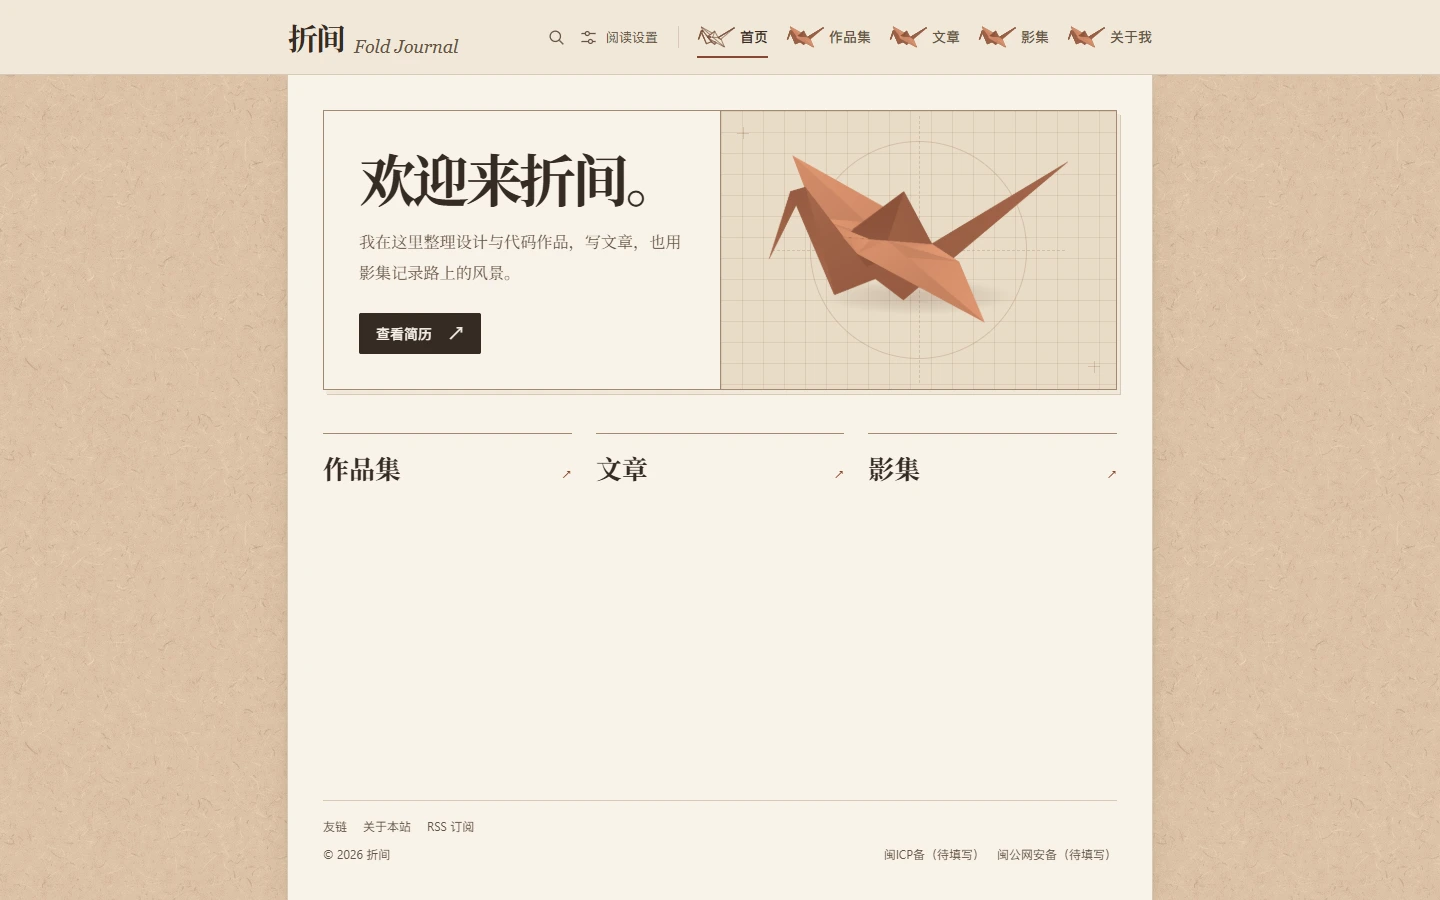
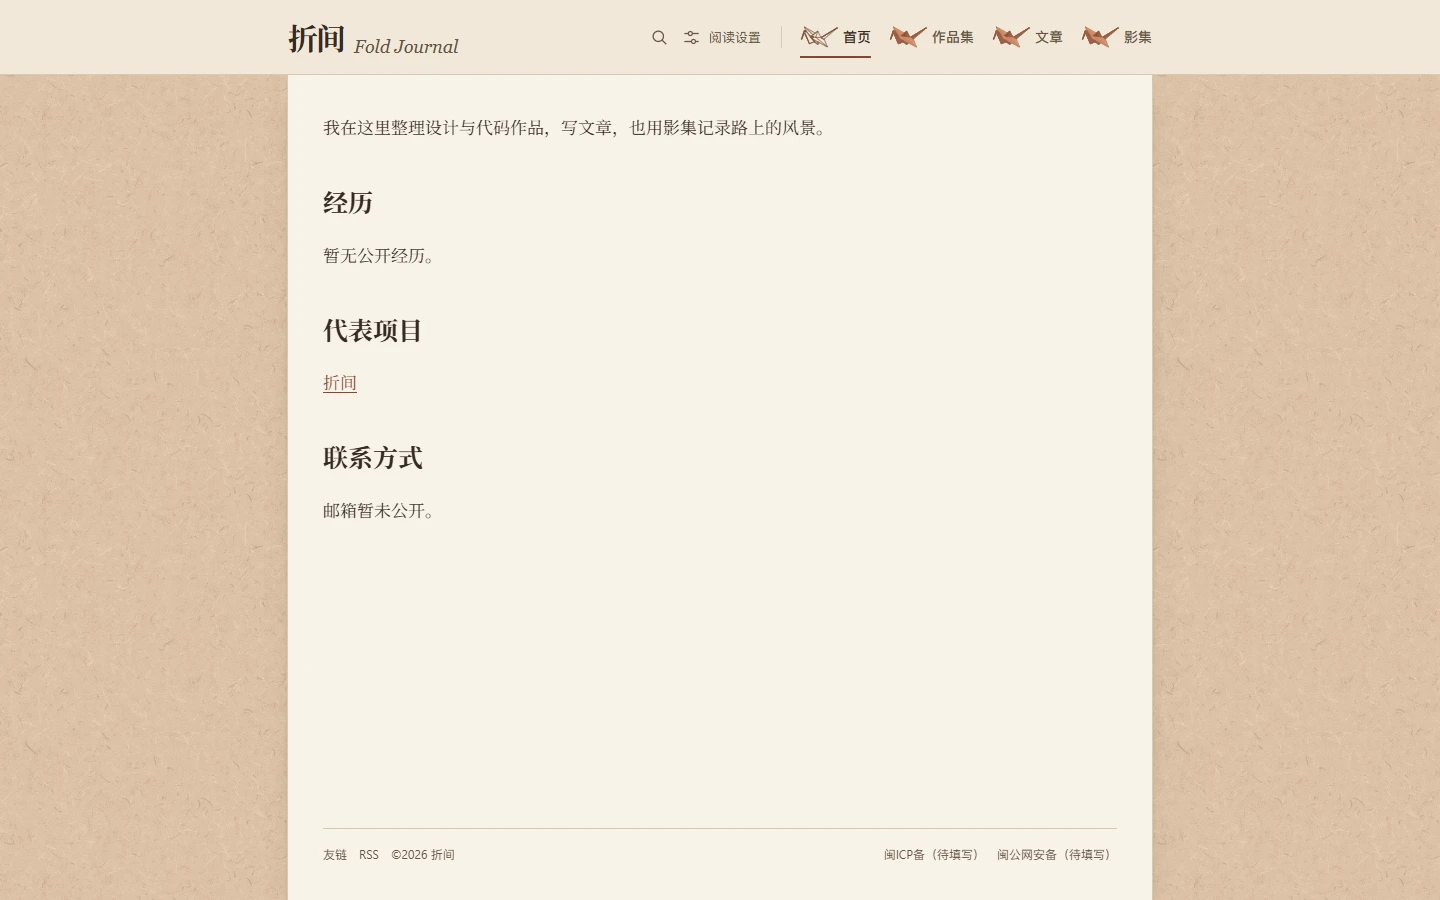
refactor(layout): show entry content first and label the reading area
Keep visible titles on detail pages and give entry pages a reading
region named by a screen-reader heading. Move keyboard focus to that
region after navigation and verify the layout across themes and sizes.

diff --git a/src/scripts/navigation.ts b/src/scripts/navigation.ts
@@ -138,8 +138,7 @@ function installNavigation() {
     current = undefined;
     if (nav.keyboard && nav.event.navigationType !== "traverse" && !location.hash &&
         (document.activeElement === document.body || !document.activeElement)) {
-      const heading = document.querySelector<HTMLElement>("main h1");
-      if (heading) { heading.tabIndex = -1; heading.focus({ preventScroll: true }); }
+      document.getElementById("content")?.focus({ preventScroll: true });
     }
   });
 

diff --git a/src/styles/global.css b/src/styles/global.css
@@ -14,6 +14,16 @@ body {
   font: var(--weight-regular) var(--text-body)/var(--leading-body) var(--sans);
 }
 h1, h2, h3, p, figure { margin: 0; }
+.visually-hidden {
+  position: absolute;
+  width: 1px;
+  height: 1px;
+  padding: 0;
+  border: 0;
+  overflow: hidden;
+  clip-path: inset(50%);
+  white-space: nowrap;
+}
 a { color: inherit; text-decoration: none; }
 button, input, summary { font: inherit; }
 :is(a, button, summary, input):focus-visible {

diff --git a/src/styles/tokens.css b/src/styles/tokens.css
@@ -63,7 +63,6 @@
   --text-deck: clamp(17px, 1.5vw, 20px);
   --leading-body: 1.65;
   --leading-prose: 1.95;
-  --type-eyebrow: var(--weight-semibold) var(--text-meta)/1.5 var(--sans);
   --type-count: var(--text-caption)/1.5 var(--mono), var(--sans);
 
   --space-1: 4px;

diff --git a/docs/vi-design.md b/docs/vi-design.md
@@ -4,7 +4,7 @@
 
 颜色、字体、字重和尺寸以 [CSS 设计变量](../src/styles/tokens.css) 为准。页面从 [Astro 组件库](../src/components/ui/index.ts) 取用界面。本文参考了 [PebblePile 的 VI 说明](https://github.com/155TuT/PebblePile/blob/main/docs/vi-design.md) 将视觉角色、对应组件和验证方法放在一起的做法。
 
-![浅色首页，纸面展示个人介绍和三个栏目入口](vi/home-light.webp)
+![浅色首页，个人介绍正文保留经历与邮箱的占位文字](vi/home-light.webp)
 
 ## 标志与插图
 
@@ -84,11 +84,11 @@
 
 | 文字角色 | 字体变量 | 字号、字重与行高 |
 | --- | --- | --- |
-| 封面标题 | `--serif` | 29–78 px，700，行高 1.12 |
-| 内页与文章标题 | `--serif` | 28–59 px，700，行高 1.2 |
-| 栏目标题、文章列表标题 | `--serif` | 栏目 26 px、列表 20–26 px，650。单栏分别为 23、21 px |
+| 文章篇名、作品名、影集名 | `--serif` | 28–59 px，700，行高 1.2。长标题在正文栏内换行 |
+| 标签、检索结果与友链的组名 | `--sans` | 14 px，600，行高 1.5，下方用细线区分列表 |
+| 列表中的内容名称 | `--serif` | 20–26 px，650，行高 1.5。单栏 21 px |
 | 正文与正文小标题 | `--serif` | 正文 17 px，单栏 16 px，400，行高 1.95。二、三级标题为 25、21 px，700 |
-| 导航、操作与说明 | `--sans` | 常规 400，导航和文字链接 550，主操作和眉题 600。说明与操作常用 12–14 px |
+| 导航、操作与说明 | `--sans` | 常规 400，导航和文字链接 550，主操作 600。说明与操作常用 12–14 px |
 | 日期、篇数与代码 | `--mono` | 日期 12 px 并使用等宽数字，篇数 11 px，代码块 13 px |
 | 英文站标、图注英文 | `--latin-serif` | Georgia 斜体。英文图注 14 px |
 
@@ -99,14 +99,14 @@
 - **纸面外框**宽 `60vw`，水平居中。上沿贴合不透明顶栏底边，下沿贴合视口底边。顶栏通常高 75 px，视口宽度不超过 1200 px 时分两行，高 88 px。宽度不超过 700 px 时，第二行分为四个等宽入口。图标居中放在文字上方，整行对齐纸面两边，停靠点始终可见。
 - **版心四边**共用 `--paper-inset`，随视口取 `clamp(10px, 2.4vw, 48px)`，支持 CSS 取整的浏览器按整像素对齐。1440 px 宽时四边为 35 px，390 px 宽时为 10 px。上下留白位于正文与版权共用的容器内，随内容卷入、卷出。滚到开头可见正文上方的留白，滚到末尾可见版权下方的留白。
 - **滚动区**是整张 `main#content`。原生滚动条贴右侧纸边，轨道从顶栏底部一直到视口底部。阅读中段的内容可以到达纸面的上下边缘。目录跳转使用同一间距将目标段落留在易读的位置。[纸面组件](../src/components/ui/Paper.astro)
-- **纸内排版**以 4、8、12、16、20、24、32 px 为常用间距。首页封面与栏目入口、正文与版权之间使用 `--section-gap`。视口宽度不超过 1084 px 时主栏、侧栏和封面插图依次纵向排列，文章目录随内容排在后面。超出正文或列表项宽度的公式、表格和代码可在各自容器内横向滚动。
+- **纸内排版**以 4、8、12、16、20、24、32 px 为常用间距。正文与版权之间使用 `--section-gap`。首页各段随正文自然排版。视口宽度不超过 1084 px 时主栏与侧栏纵向排列，文章目录随内容排在后面。超出正文或列表项宽度的公式、表格和代码可在各自容器内横向滚动。
 - **版权区**通过一条细线与正文分隔。左侧「友链　RSS　©年份 折间」始终同排，版权文字链接到「关于本站」。备案靠右，纸面较窄时整组移到下一行，并可在两个备案项之间折行。短页靠近纸面下边，长页随正文滚到末尾出现。正式备案信息统一在 [PaperFooter](../src/components/ui/PaperFooter.astro) 更新。
 
-![深色标签页，版权和备案在短页底部，与正文左右对齐](vi/tags-dark.webp)
+![深色搜索页，搜索框下按主题展示标签及各自的内容数](vi/tags-dark.webp)
 
 ## 组件选用
 
-使用组件的字号、留白、分组和细线表达层级。页名直接作一级标题，按钮文字只写动作或目的地。内容本身的介绍、图注、搜索反馈和空列表状态按需要出现。
+入口能说明页面作用时，纸面直接呈现内容。作品、文章和影集列表从首项或空列表状态开始，友链仅有一组时从首张卡片开始。搜索框右侧提供「全文搜索」，下方的标签按主题分组。点选标签后在搜索反馈中显示标签名与命中数。打开单篇文章、作品或影集时，以该篇、该件或该册的名称作可见一级标题。404 用一行正文说明找不到页面。所有页面都提供浏览器标题、分享预览和读屏名称。
 
 组件通过 `src/components/ui/index.ts` 导出。页面负责取数和组合组件，布局根据 URL 确定所属栏目。组件的样式、变体和断点放在对应的 `.astro` 文件中。
 
@@ -116,7 +116,7 @@
 | 折纸导航图标 | `FoldDock` | 接收栏目配置中的实心图和线稿，提供播放器测量的停靠框。选中、停靠与主题状态由顶栏和布局驱动 |
 | 阅读偏好 | `ReadingSettings`、`SettingSwitch` | 使用原生展开面板与带标签的开关。设置项沿用 `theme`、`reduce`、`parallel` |
 | 分栏与旁注 | `ContentColumns`、`Sidebar`、`TableOfContents` | 正文进默认插槽，侧栏进 `aside` 插槽。文章传 Markdown 标题生成二、三级目录 |
-| 标题 | `PageHeading`、`SectionHeading` | 内页直接显示页名，分区标题可附文字操作 |
+| 页名与分组 | `PageHeading`、`SectionHeading` | 详情模板用 `PageHeading` 显示内容名称，在 `Site` 声明 `hasContentHeading`。其余页面由 `Paper` 输出仅读屏可见的页名。分组使用小字组名，单组友链的组名仅读屏可见 |
 | 链接与操作 | `ActionLink`、`ActionRow` | 普通文字链接使用默认变体，主要阅读入口使用 `variant="primary"`。可选箭头属于装饰，操作含义由可见文字给出 |
 | 插图与日期 | `Plate`、`PostDate` |插图支持 `cover`、`article` 两种变体。日期用 `time` 元素同时保留标准值与印刷格式 |
 | 文章与索引 | `PostList`、`PostArticle`、`Prose`、`TagList`、`PostNeighbors` | 作品、文章和主题结果共用列表。文章把 Markdown 正文传给 `PostArticle`，自定义长文可用 `Prose`。索引标签带内容项数，文末标签用紧凑的 `article` 变体 |
@@ -127,7 +127,7 @@
 
 折纸以整张可见纸面的外框为起点。仅当起点与终点属于不同的一级栏目时收展，收纸与展纸各 1160 ms。正文和版权跟随平纸淡出与恢复。从作品集点进项目、从文章读相邻文章、从影集目录打开一册，以及涉及辅助页面的跳转，都直接换内容。返回与前进遵循同一规则，并按历史条目恢复纸内位置。选择「减少动态效果」后，跨栏目也直接换页。[换页逻辑](../src/scripts/navigation.ts) · [折叠播放器](../src/lib/fold/player.ts) · [滚动恢复](../src/scripts/paper-scroll.ts)
 
-用 Tab 可以进入「跳到正文」、导航、设置和纸面。键盘焦点使用 2 px 强调色轮廓。正文链接带下划线，导航以文字和下划线标出当前栏目，开关通过圆点位置与选中状态表达变化。文章、目录、版权和普通链接都随静态 HTML 输出。
+用 Tab 可以进入「跳到正文」、导航、设置和纸面。键盘切换页面后，焦点落在带页名的正文区域，再按 Tab 可进入其中的首个操作。键盘焦点使用 2 px 强调色轮廓。正文链接带下划线，导航以文字和下划线标出当前栏目，开关通过圆点位置与选中状态表达变化。文章、目录、版权和普通链接都随静态 HTML 输出。
 
 修改版心或组件后，运行 `npm run check` 和 `npm run build`。在生产预览中运行 [导航回归](../tools/check-navigation.cjs)，检查四边距离、长短页版权位置、导航收展、目录锚点与历史恢复。
 

diff --git a/docs/page-map.md b/docs/page-map.md
@@ -1,6 +1,6 @@
 # 折间 · 页面层级
 
-四个一级栏目共用一张纸面，作者的个人资料集中在首页。下图标出公开页面、开发模式下的文章草稿以及各入口的归属。[栏目配置](../src/lib/sections.ts) · [页面目录](../src/pages/)
+四个一级栏目共用一张纸面，作者的个人资料集中在首页。首页、栏目列表、搜索和友链直接展示内容或操作。打开具体内容时，纸面显示文章篇名、作品名或影集名。下图标出公开页面、开发模式下的文章草稿以及各入口的归属。[栏目配置](../src/lib/sections.ts) · [页面目录](../src/pages/)
 
 ## 四个一级栏目
 
@@ -14,7 +14,7 @@ mindmap
       work["作品详情 /works/:slug/"]
     articles["文章 /archives/"]
       post["文章正文 /archives/:slug/"]
-      drafts["草稿列表 /archives/draft/（本地开发）"]
+      drafts["草稿列表 /archives/draft/（本机手动输入）"]
         draft["草稿预览 /archives/draft/:slug/（本地开发）"]
     albums["影集 /albums/"]
       album["整本影集 /albums/:slug/"]
@@ -51,7 +51,7 @@ mindmap
 | 搜索与标签索引 | `/search/` | 从顶栏进入，搜索框下按主题列出全部公开标签和内容数。输入文字即时筛选标签名和组名，`?filter=…` 保留筛选词。初始分组为设计与创作、编程与算法、研究与论文、校园与日常，新标签默认归入「其他」。[分组配置](../src/data/tag-groups.json) |
 | 标签匹配 | `/search/?tag=…` | 点搜索页或正文里的标签，查看所有使用该标签的作品、文章和影集。结果中显示所选标签和命中数量，每项直达内容详情。 |
 | 全文检索 | `/search/?q=…` | 提交关键词后，在同一页查看标题、摘要、标签或正文命中的内容。空格分开的关键词须全部命中，结果按内容类型分组。「全部标签」回到搜索首页。 |
-| 友链 | `/friends/` | 同一页分「我的朋友」和「我常读的网站」。作者公开邮箱后，「联系我」链接到首页的邮箱，可接收读者来信和友链申请。 |
+| 友链 | `/friends/` | 只有一组站点时直接展示卡片。「我的朋友」和「我常读的网站」都有内容时，用小字组名区分两组。作者公开邮箱后，「联系我」链接到首页的邮箱，可接收读者来信和友链申请。 |
 | 关于本站 | `/works/fold-journal/` | 点击页脚的「©年份 折间」打开作品集里的「折间」项目。这里讲本站的设计、纸纹和折纸换页，以及纸鹤折痕的来历，读者可以继续查看 `/credits.txt` 的完整署名。 |
 | 订阅更新 | `/feed.xml` | 页脚提供一份全站 RSS，供读者用阅读器订阅。每件新作品、每篇新文章、每本新影集各占一条，链接回本站的正式页面。 |
 
@@ -64,7 +64,7 @@ mindmap
 
 ## 文章草稿与旧书签
 
-本机运行 `astro dev` 时，作者可以从文章页进入 `/archives/draft/`，选一篇到 `/archives/draft/:slug/` 预览。`draft` 是该分区预留的路径段。草稿区收录六篇折间示例与旧博客的两份草稿。「折纸手记」「散步笔记」「设计与代码」随示例留作草稿资料。
+本机运行 `astro dev` 时，作者可手动输入 `/archives/draft/` 选择草稿，或输入 `/archives/draft/:slug/` 直达预览。也可直接阅读 `src/content/posts/draft/` 中的 Markdown。`draft` 是该分区预留的路径段。草稿区收录六篇折间示例与旧博客的两份草稿。「折纸手记」「散步笔记」「设计与代码」随示例留作草稿资料。
 
 公开构建只生成已发布内容。文章列表、相邻文章、首页引用、标签及其计数、搜索索引、RSS 和旧地址跳转均遵循这个范围。生产预览与正式站直接访问草稿列表或预览地址都返回 404。
 

diff --git a/README.md b/README.md
@@ -51,7 +51,7 @@ ruling: ruled
 这里写正文。
 ```
 
-`ruling` 可选 `ruled`（横线纸）或 `grid`（方格纸），默认横线纸。二、三级标题生成目录。六篇原示例保存在 `src/content/posts/draft/`，在本机开发服务的 `/archives/draft/` 阅读。将定稿移至 `src/content/posts/` 即可发布。生产构建只为公开内容生成页面、标签、搜索结果、订阅条目和旧址跳转。
+`ruling` 可选 `ruled`（横线纸）或 `grid`（方格纸），默认横线纸。文章名填在 `title`，同时用作列表链接和正文页的一级标题。Markdown 从正文开始，二、三级标题生成目录。草稿可直接在 `src/content/posts/draft/` 阅读，或启动本机开发服务，手动输入 `/archives/draft/` 预览。将定稿移至 `src/content/posts/` 即可发布。生产构建只为公开内容生成页面、标签、搜索结果、订阅条目和旧址跳转。
 
 旧 Hexo 博客的八篇公开文章保留原发布时间、标签和日期书签。两份原草稿一并存入本机草稿区。日期按北京时间显示，RSS 使用原发布时刻。用 `$…$` 写行内公式，用独立成行的 `$$` 包裹公式块，构建时生成 MathML。旧文章的插图位于 `public/media/posts/<slug>/`，在 Markdown 里写 `![图注](/media/posts/<slug>/图片.webp)`，构建会补上部署子路径。友链的可选 `avatar` 字段可填写 `media/friends/文件名.webp`。
 
@@ -59,7 +59,7 @@ ruling: ruled
 
 - 在 `src/content/works/` 添加带标题、摘要、日期和标签的 Markdown。站点自身的案例在 `/works/fold-journal/`，可从页脚版权或个人介绍正文中的「折间」链接打开。
 - 在 `src/content/albums/` 发布影集，使用 `photos` 数组按观看顺序填写每张照片的 `src`、`alt` 与可选的 `caption`。`cover` 可指定单独的封面，默认取第一张照片。公开照片可放进 `public/`。每册拥有独立地址 `/albums/<slug>/`。
-- 在 [个人资料配置](src/lib/profile.ts) 填写署名、自我介绍、经历和邮箱。经历和邮箱留空时分别显示「暂无公开经历」和「邮箱暂未公开」。也可用 `PUBLIC_CONTACT_EMAIL` 设置邮箱，公开后友链页的「联系我」指向首页的「联系方式」段落 `/#contact`。
+- 在 [个人资料配置](src/lib/profile.ts) 填写署名、自我介绍、经历和邮箱。首页从自我介绍开始，填写署名后会在首段前以正文字号显示。经历和邮箱留空时分别显示「暂无公开经历」和「邮箱暂未公开」。也可用 `PUBLIC_CONTACT_EMAIL` 设置邮箱，公开后友链页的「联系我」指向首页的「联系方式」段落 `/#contact`。
 - 友链名录在 `src/data/friends.json`。每条填写分组 `group`（`friends` 或 `reading`）、站名 `name`、主页 `url`、推荐语 `note` 与手选文章 `picks`（每篇含 `title`、`url`）。用 `feed` 指定 RSS/Atom 地址，也可以用 `latest` 手填最新文章及可选日期 `date`。`npm run sync:friends` 从对方的订阅源同步最新一篇文章，构建时也会同步。`src/data/friend-updates.json` 保存成功结果。保留此快照即可在后续构建遇到源站离线时继续展示。
 - 正式部署时将 `SITE_URL` 设为站点源地址。`/feed.xml` 在每次构建时收录已发布的作品、文章和影集，并使用含部署前缀的绝对链接。
 

diff --git a/AGENTS.md b/AGENTS.md
@@ -8,13 +8,13 @@
 2. 页面通过 `src/components/ui` 导入组件，用属性和插槽组织内容。新页面使用 `Site` 布局，共用站标、顶栏、纸面、版权和折叠舞台。
 3. 现有组件能表达的界面直接复用。需要新变体时扩展原组件的属性与作用域样式。确需新增组件时放在 `src/components/ui/`，从 `index.ts` 导出，并在 VI 的组件表写明用途。全局基础样式由 `src/styles/global.css` 管理。
 4. 调整视觉规则时，同步修改 VI、设计变量和使用它的组件。站标、导航、日期、标签、文章标题、按钮和备案信息各有统一入口，页面中避免重复定义。
-5. 用组件的字号、留白、分组和分隔线表达层级。标题直接使用内容名称，按钮写动作或目的地。访客页面只呈现公开资料、内容和必要的状态反馈。
+5. 首页、栏目列表和工具页直接呈现内容或操作，入口名称仅作为浏览器与读屏标题。文章、作品和影集详情使用可见的内容标题，在 `Site` 上标记 `hasContentHeading`。用分组、小标题、留白和细线表达正文层级，按钮写动作或目的地。访客页面只呈现公开资料、内容和必要的状态反馈。
 
 ## 页面层级与栏目图标
 
 - 调整栏目或新增页面前先看[可编辑的页面层级图](docs/page-map.md)，按图安排页面、链接和导航归属。主导航依次为首页、作品集、文章、影集。首页直接呈现个人介绍原稿，保留经历和邮箱的占位文案，代表项目使用正文文字链接。同步维护图、README 与 [一级栏目配置](src/lib/sections.ts)。文章列表用 `/archives/`，正文和分类都在该分支内，页面文字统一用「文章」。
 - 每个一级栏目通过 `FoldDock` 使用独立配置的实心图和线稿。线稿保留最终折姿的所有可见纸边、内折边与遮挡关系，线宽和明暗主题的描线取 VI 变量。实心图、线稿和飞行末帧共用画框、边距和视角。新模型可复用 [离线可见边提取](tools/fold-outline.mjs)，将导出的 SVG 随静态素材发布。
-- 分组标签索引、全文检索和标签匹配共用 `/search/`，正文标签也链接到该页。
+- 作品集、文章和影集列表直接展示各自的条目。分组标签索引、全文检索和标签匹配共用 `/search/`，正文标签也链接到该页。草稿入口由作者在本机手动输入 `/archives/draft/`。
 - 线稿始终铺在图标底层。停留时当前栏目露出线稿，其余栏目覆盖实心图。跨一级栏目才收纸与展纸。文章列表、分类、正文之间的点击，以及同栏目历史导航，均直接切换内容。
 
 ## 纸面与换页
